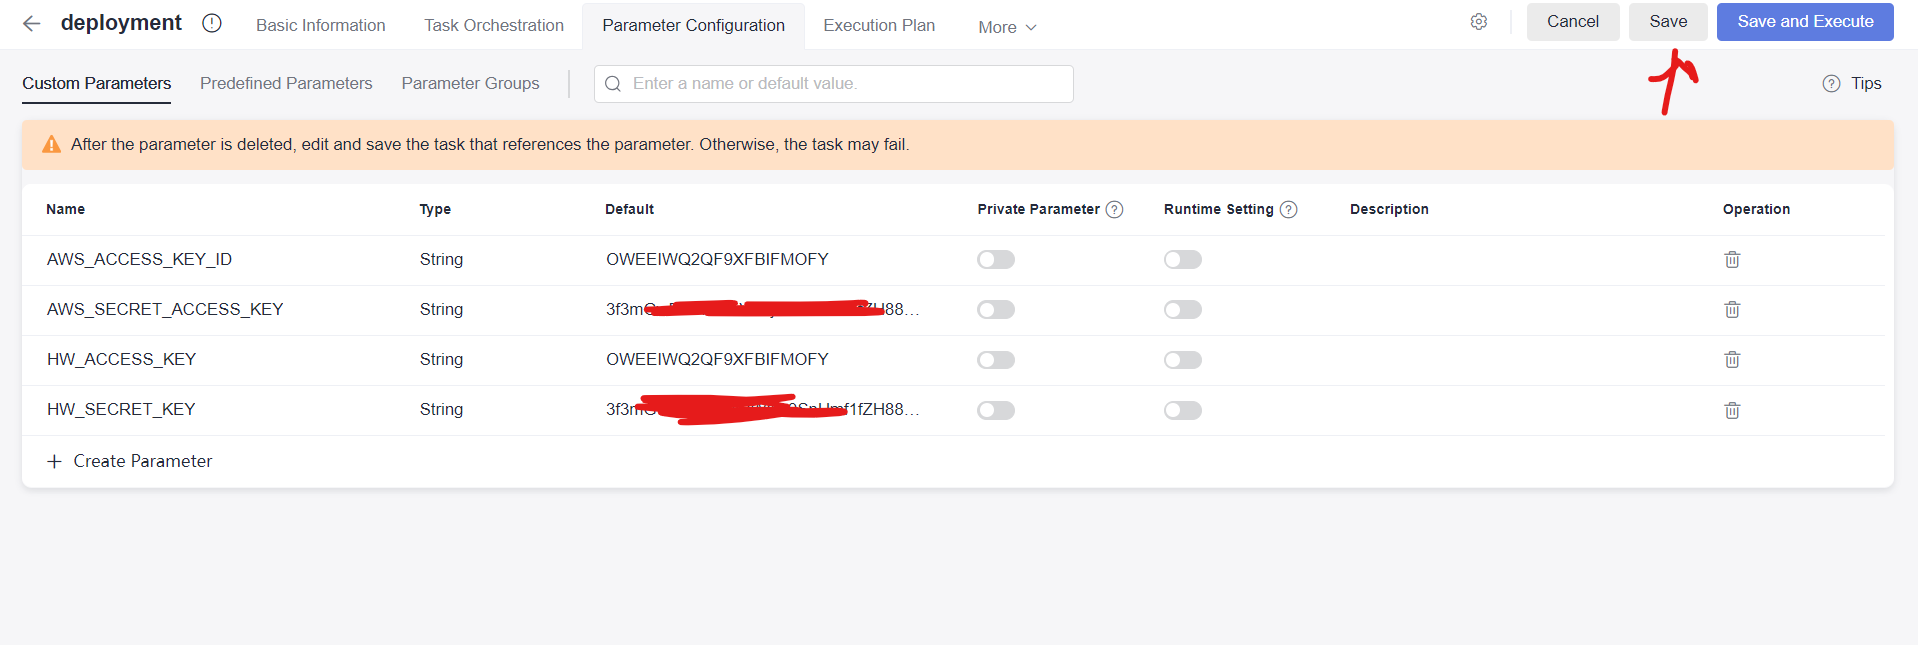
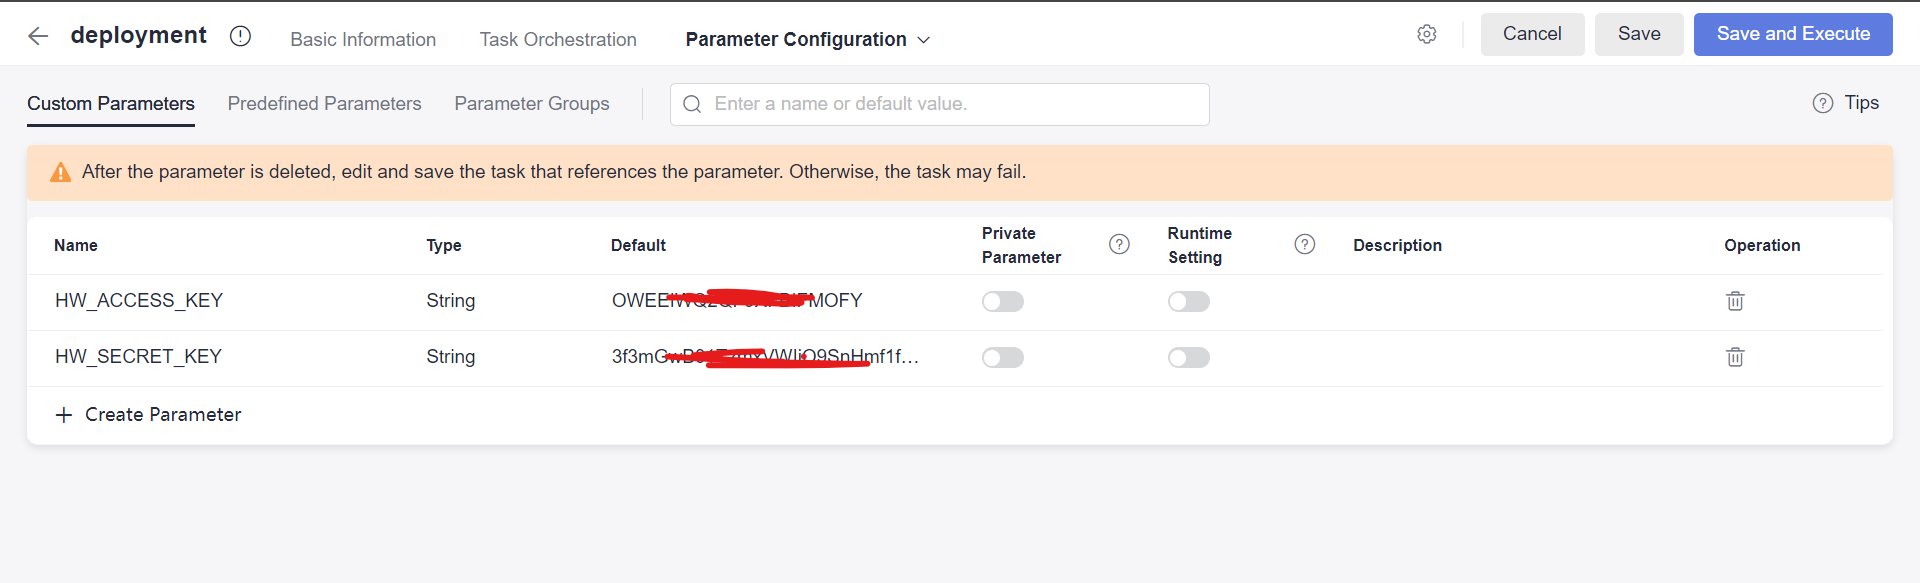
Update

diff --git a/README.md b/README.md
@@ -101,6 +101,115 @@ In this workshop, Huawei Cloud OBS is used as the backend of terraform
    * Password: The password provided by Organizer
 ![Endpoints5](./resources/6-pipeline-8.png)
 
+## Creating Terraform Validation Job
+1. On the `CodeArts` service page, Select `CICD` -> `Build` -> `Create Task`
+![CreateTerraformValidation](./resources/7-terraformvalidation-1.png)
+
+2. On the creation page, use `terrafrom-validation` and click `Next` and Select `Shell` template
+![CreateTerraformValidation1](./resources/7-terraformvalidation-2.png)
+![CreateTerraformValidation2](./resources/7-terraformvalidation-3.png)
+
+3. On the task page, Click `...` on the right of job name and Select `Delete` to delete the job
+![CreateTerraformValidation2](./resources/7-terraformvalidation-4.png)
+
+4. On the left side panel, Click `Add Build Actions` to add a new action, in the action list, Select `Use SWR Public Image`
+![CreateTerraformValidation3](./resources/7-terraformvalidation-5.png)
+
+5. Provide the following parameters for the job
+   * `Action Name`: ```Terrafrom Validation```
+   * `Image Address`: ```swr.ap-southeast-3.myhuaweicloud.com/core/ubuntu:codearts1```
+   * `Commands`:
+      ````
+      export HW_ACCESS_KEY=${HW_ACCESS_KEY}
+      export HW_SECRET_KEY=${HW_SECRET_KEY}
+      export AWS_ACCESS_KEY_ID=${HW_ACCESS_KEY}
+      export AWS_SECRET_ACCESS_KEY=${HW_SECRET_KEY}
+      terraform -chdir=infrastructure init
+      terraform -chdir=infrastructure validate
+      terraform -chdir=application init
+      terraform -chdir=application validate
+      ```
+![CreateTerraformValidation4](./resources/7-terraformvalidation-6.png)
+
+6. Select the `Parameters` tab on the top of the page and Create the following two parameters with empty value and enable the `Runtime Settings`
+   * Name: `HW_ACCESS_KEY`
+   * Name: `HW_SECRET_KEY`
+![CreateTerraformValidation5](./resources/7-terraformvalidation-7.png)
+
+7. Save the task
+
+## Creating Checkov Validation Job
+1. On the `CodeArts` service page, Select `CICD` -> `Build` -> `Create Task`
+![CreateTerraformValidation](./resources/7-terraformvalidation-1.png)
+
+2. On the creation page, use `checkov-validation` and click `Next` and Select `Shell` template
+![checkov1](./resources/8-checkovvalidation-1.png)
+![checkov2](./resources/8-checkovvalidation-2.png)
+
+3. On the task page, Click `...` on the right of job name and Select `Delete` to delete the job
+![checkov3](./resources/8-checkovvalidation-3.png)
+
+4. On the left side panel, Click `Add Build Actions` to add a new action, in the action list, Select `Use SWR Public Image`
+![checkov4](./resources/8-checkovvalidation-4.png)
+
+5. Provide the following parameters for the job
+   * `Action Name`: ```Checkov Validation```
+   * `Image Address`: ```swr.ap-southeast-3.myhuaweicloud.com/core/ubuntu:codearts1```
+   * `Commands`:
+      ````
+      checkov -d infrastructure --download-external-modules true --external-checks-git https://github.com/Huawei-APAC-Professional-Services/terraform-policy.git
+      checkov -d application --download-external-modules true --external-checks-git https://github.com/Huawei-APAC-Professional-Services/terraform-policy.git
+      ```
+6. Save the task
+
+## Creating Terraform Plan Job
+1. On the `CodeArts Build` Page, Click the `...` icon on the `terraform-validation` job to Clone a new job
+![Terraformplaninfra](./resources/9-infraterraformplan-1.png)
+
+2. Select `Basic Information` tab on the top of the page and Change the name to `terrafrom-plan`
+![Terraformplaninfra1](./resources/9-infraterraformplan-2.png)
+
+3. Select the `Build Actions` tab and the `Terrafrom Validation` job on the left side panel and Change the following the following parameters for the job
+   * `Action Name`: ```Terrafrom Plan```
+   * `Image Address`: ```swr.ap-southeast-3.myhuaweicloud.com/core/ubuntu:codearts1```
+   * `Commands`:
+      ````
+      export HW_ACCESS_KEY=${HW_ACCESS_KEY}
+      export HW_SECRET_KEY=${HW_SECRET_KEY}
+      export AWS_ACCESS_KEY_ID=${HW_ACCESS_KEY}
+      export AWS_SECRET_ACCESS_KEY=${HW_SECRET_KEY}
+      terraform -chdir=infrastructure init
+      terraform -chdir=infrastructure plan
+      terraform -chdir=application init
+      terraform -chdir=application plan
+      ```
+![terrafromplan4](./resources/9-infraterraformplan-3.png)
+4. Save the task
+
+## Creating Terraform Apply Job
+1. On the `CodeArts Build` Page, Click the `...` icon on the `terraform-validation` job to Clone a new job
+![Terraformplaninfra](./resources/9-infraterraformplan-1.png)
+
+2. Select `Basic Information` tab on the top of the page and Change the name to `terrafrom-apply`
+![Terraformapply](./resources/10-infraterraappy-1.png)
+
+3. Select the `Build Actions` tab and the `Terrafrom Validation` job on the left side panel and Change the following the following parameters for the job
+   * `Action Name`: ```Terrafrom Apply```
+   * `Image Address`: ```swr.ap-southeast-3.myhuaweicloud.com/core/ubuntu:codearts1```
+   * `Commands`:
+      ````
+      export HW_ACCESS_KEY=${HW_ACCESS_KEY}
+      export HW_SECRET_KEY=${HW_SECRET_KEY}
+      export AWS_ACCESS_KEY_ID=${HW_ACCESS_KEY}
+      export AWS_SECRET_ACCESS_KEY=${HW_SECRET_KEY}
+      terraform -chdir=infrastructure init
+      terraform -chdir=infrastructure apply -auto-approve
+      terraform -chdir=application init
+      terraform -chdir=application apply -auto-approve
+      ```
+![terraformplan1](./resources/10-infraterraappy-2.png)
+4. Save the task
+
 ## Creating Deployment Pipeline
 1. On the `CodeArts` service page, Select `CICD` -> `Pipeline`
 ![Pipeline](./resources/6-pipeline-1.png)
@@ -118,8 +227,6 @@ In this workshop, Huawei Cloud OBS is used as the backend of terraform
 ![Pipeline4](./resources/6-pipeline-11.png)
 
 6. Set the following parameters with the credentials created in [Create AK/SK](#create-aksk)
-```AWS_ACCESS_KEY_ID``` 
-```AWS_SECRET_ACCESS_KEY```
 ```HW_ACCESS_KEY``` 
 ```HW_SECRET_KEY```
 
@@ -127,10 +234,56 @@ In this workshop, Huawei Cloud OBS is used as the backend of terraform
 
 ![Pipeline6](./resources/6-pipeline-13.png)
 
-7. Change to `Task Orchestration` tab and click `Edit` icon to modify the state name to `Validation`
+7. Change to `Task Orchestration` tab and click `Edit` icon to modify the stage name to `Validation`
 ![Pipeline7](./resources/6-pipeline-14.png)
 
 ![Pipeline8](./resources/6-pipeline-15.png)
 
-8. Click `New Job` to create a build job
-![Pipeline9]
+8. Click `New Job` to create a build job, for the job type, select `Build`
+![Pipeline16](./resources/6-pipeline-16.png)
+
+9. On the job configuration page, select the `terraform-validation` task and `policy-as-code-lab` repository, for the following parameters, using the following values.
+   * Name: `terraform validation`
+   * HW_ACCESS_KEY: `${HW_ACCESS_KEY}`
+   * HW_SECRET_KEY: `${HW_SECRET_KEY}`
+![pipelinevalidation1](./resources/6-pipeline-17.png)
+
+10. On the pipeline page, Click `+Parallel Job` to add another job under `Validation` stage
+![pipelinevalidation2](./resources/6-pipeline-18.png)
+
+11. On the job configuration page, providing the following parameters:
+   * Name: `checkov validation`
+   * Select Task: `checkov-validation`
+   * Repository: `policy-as-code-lab`
+![pipelinevalidation3](./resources/6-pipeline-19.png)
+
+12. On the pipeline configuration page, Click `+Stage` to create a `Plan` stage
+![pipelinevalidation3](./resources/6-pipeline-20.png)
+
+![pipelinevalidation4](./resources/6-pipeline-21.png)
+
+13. Under the `Plan` stage, add a `terraform plan` job, to configure the job with the following parameters:
+   * Name: `terraform plan`
+   * Select Task: `terraform-plan`
+   * Repository: `policy-as-code-lab`
+   * HW_ACCESS_KEY: `${HW_ACCESS_KEY}`
+   * HW_SECRET_KEY: `${HW_SECRET_KEY}`
+
+![pipelinevalidation5](./resources/6-pipeline-22.png)
+
+14. On the pipeline configuration page, Click `+Stage` to create a `Deployment` stage
+![pipelinevalidation3](./resources/6-pipeline-23.png)
+
+15. Under the `Deployment` stage, add a `terraform apply` job, to configure the job with the following parameters:
+   * Name: `terraform apply`
+   * Select Task: `terraform-apply`
+   * Repository: `policy-as-code-lab`
+   * HW_ACCESS_KEY: `${HW_ACCESS_KEY}`
+   * HW_SECRET_KEY: `${HW_SECRET_KEY}`
+![pipelinevalidation3](./resources/6-pipeline-24.png)
+
+16. On the pipeline page, Click `Save and Execute` to run the pipeline
+![pipelinevalidation3](./resources/6-pipeline-25.png)
+
+![pipelinevalidation3](./resources/6-pipeline-26.png)
+
